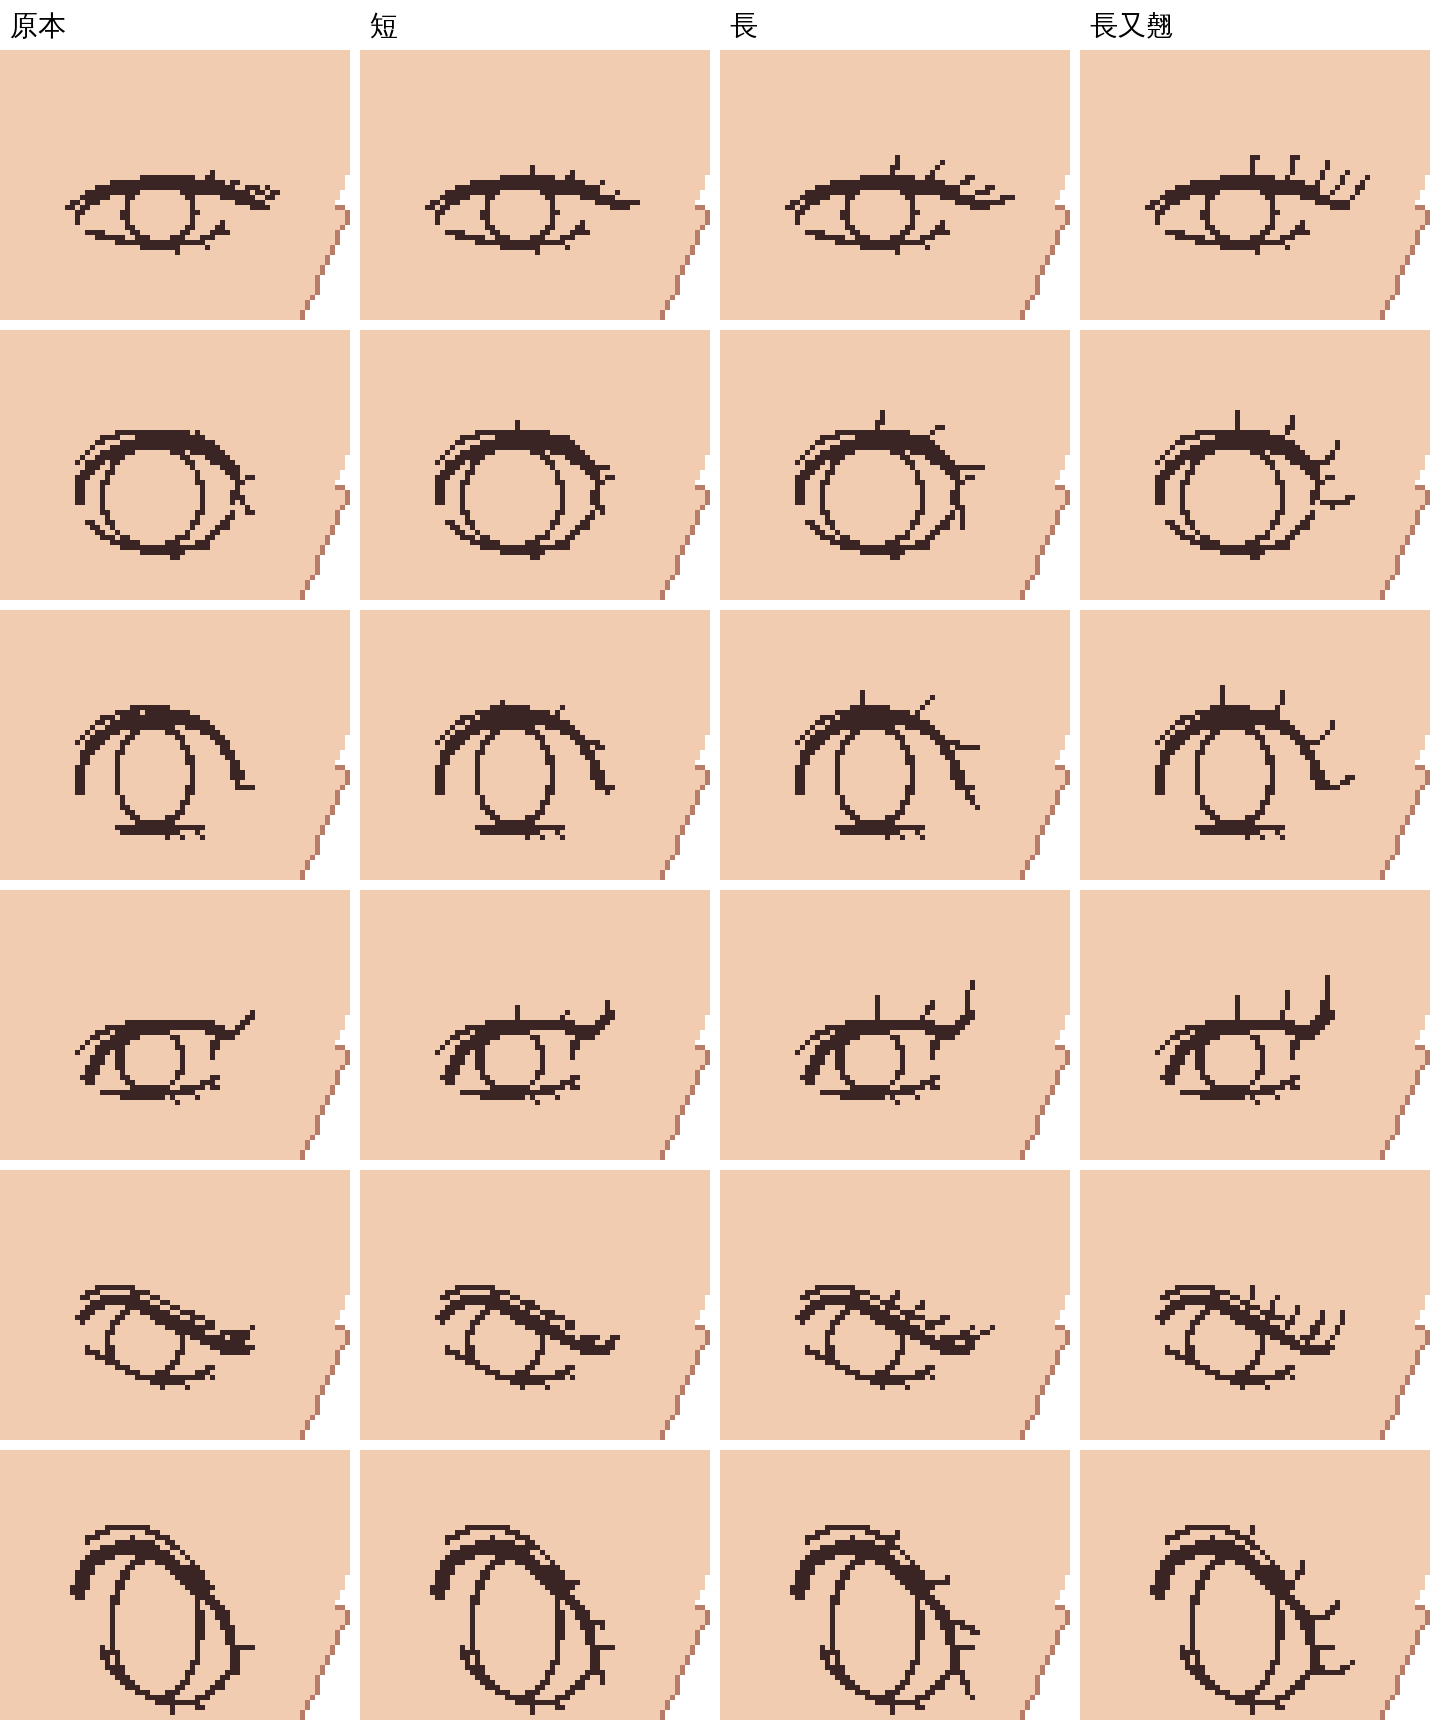
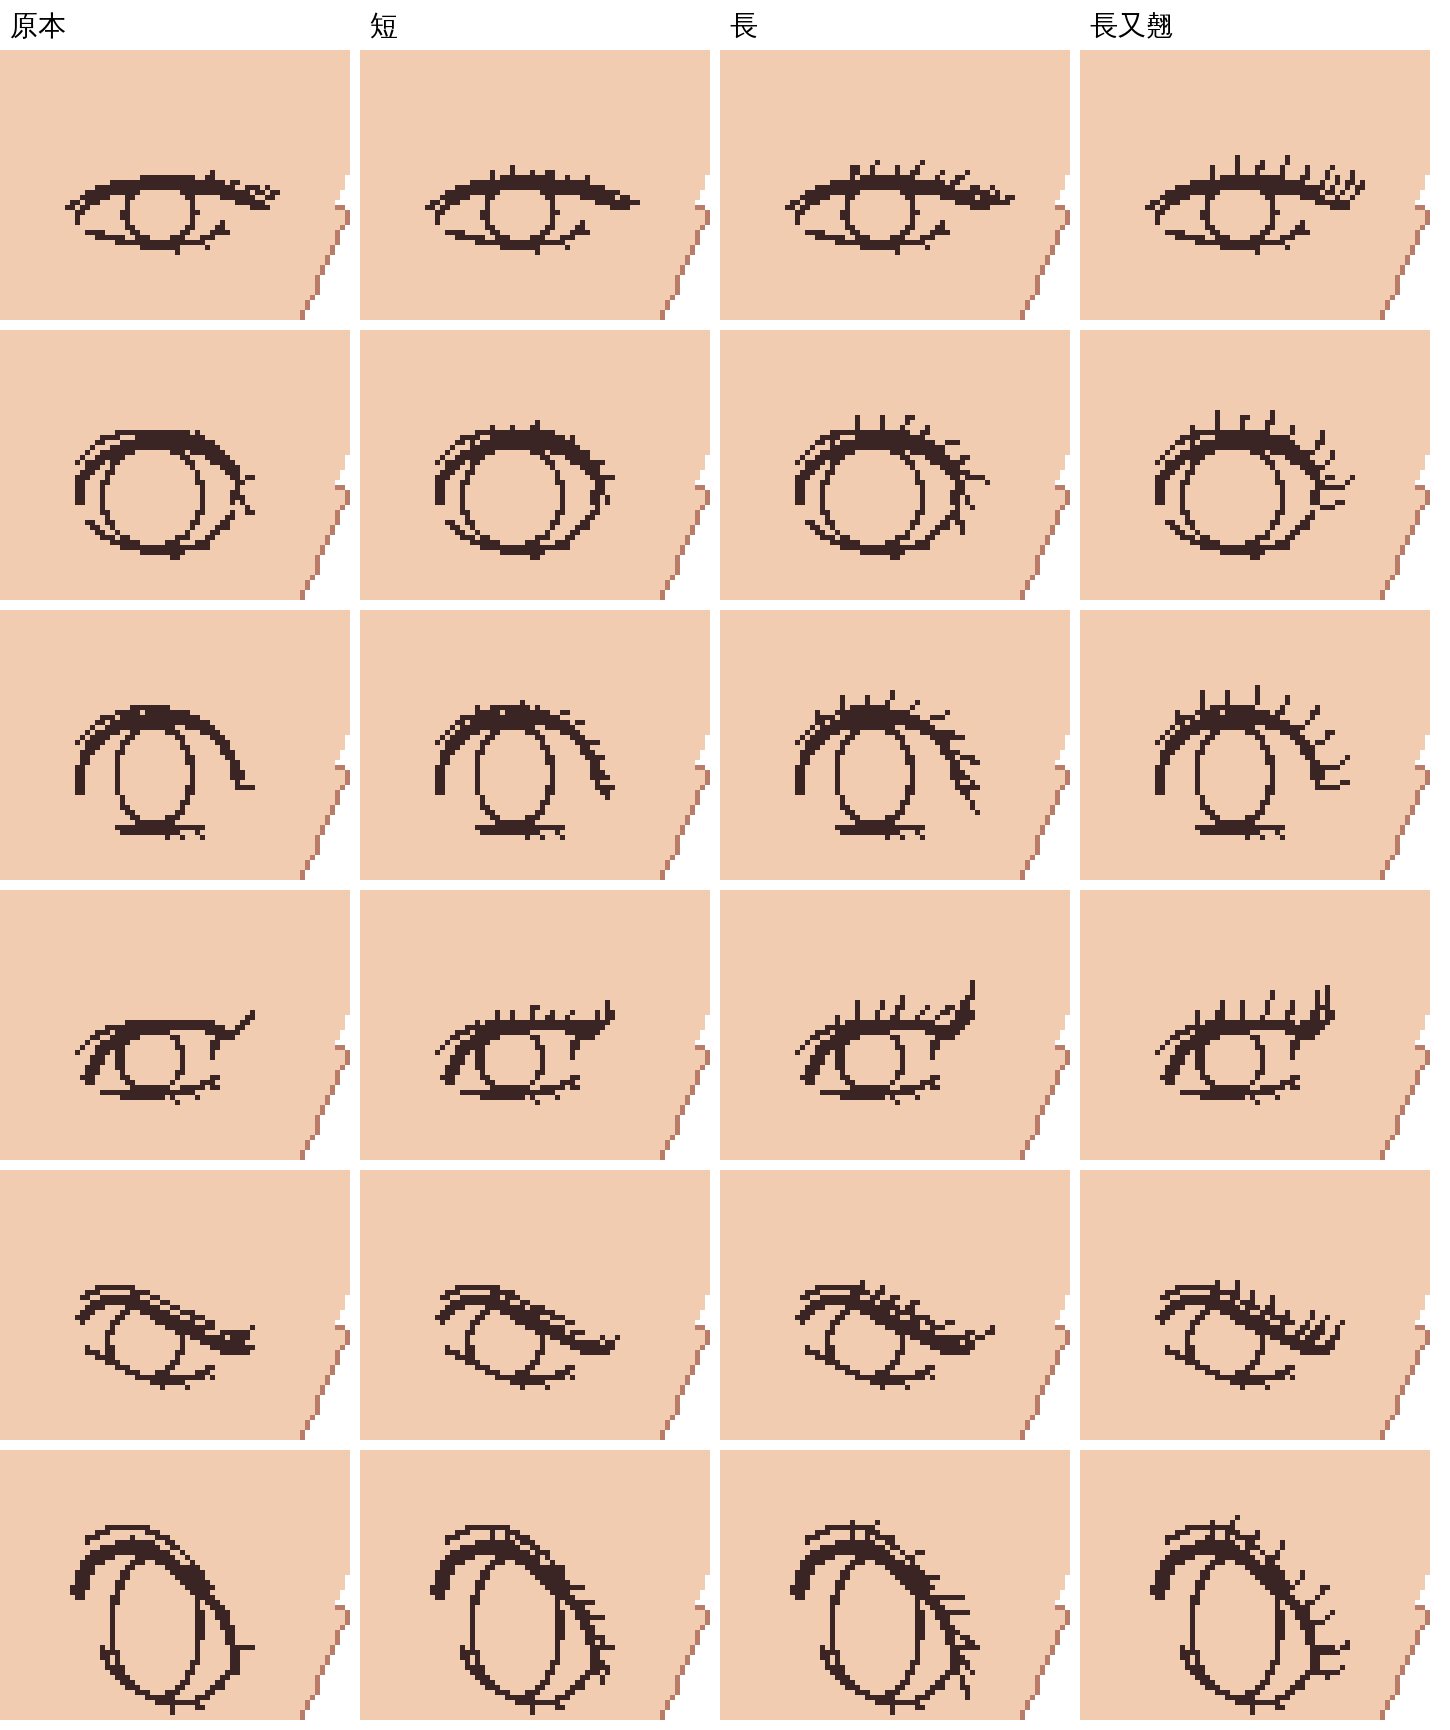
droom 臉模 v2：睫毛加密（使用者：太疏）——短 11、長 10、翹 9 根，從上眼線 30% 排到外眼角、長短交錯
Claude-Session: https://claude.ai/code/session_01FDQv7ddy7JMjePn6AqJ3VJ

diff --git a/web/droom/face_mold/v2/eyeframe.py b/web/droom/face_mold/v2/eyeframe.py
@@ -30,6 +30,7 @@ IRCENTER=os.environ.get('IRCENTER','1')=='1';IRIN=float(os.environ.get('IRIN','.
 # 2026-11-19 第二本教學（普通／つり目／たれ目各 6 個）：上眼線外半段長出一根根細睫毛、下眼線外側幾根小短毛、
 # 雙眼皮線拉長貼著上眼線、黑眼珠改成直的橢圓（比較高、比較窄）
 LASH=os.environ.get('LASH','')   # 睫毛種類（使用者 2026-11-19）：短／長／翹（長又翹）；空的＝教學量的原樣
+LASHCNT={'短':11,'長':10,'翹':9}
 LASHN=4;LASHL=3.0;IRISW,IRISH=5.6,7.8
 TYPES={
  # ── 2026-11-19 第二本教學「普通」那 6 個，照圖量的（眼寬當 27，原點在開口中央）──
@@ -123,21 +124,22 @@ class Frame:
     # 上睫毛：上眼線 55%～95% 的地方，往上偏外長出去，越外越長
     s.lashsegs=[]
     nl=T.get('lash',LASHN);n=len(s.up)
-    if LASH:nl=max(nl,4)          # 選了睫毛種類就每種眼眶都長睫毛（原本沒睫毛的至少 4 根）
+    if LASH:nl=LASHCNT.get(LASH,8)   # 選了睫毛種類就用固定根數（使用者：太疏了 → 密一點）
     for j in range(nl):
       q=j/max(1,nl-1)
-      t=(.46+.5*q) if LASH else (.58+.36*q);i=min(n-2,int(t*(n-1)))
+      t=(.3+.68*q) if LASH else (.58+.36*q);i=min(n-2,int(t*(n-1)))
+      alt=(1 if j%2 else .78) if LASH else 1   # 長短交錯，看起來比較自然
       (x0,y0),(x1,y1)=s.up[i],s.up[i+1];tx,ty=x1-x0,y1-y0;L=math.hypot(tx,ty) or 1;tx/=L;ty/=L
       nx,ny=ty,-tx;dx,dy=nx*.75+tx*.65,ny*.75+ty*.65;D=math.hypot(dx,dy);dx/=D;dy/=D
       hw=(s.upw[i]/2 if LASH else .6);bx,by=x0+nx*hw*.8,y0+ny*hw*.8   # 從上眼線的上緣長出來（法線朝上）
       # 扇形：內側那根比較直立、越外越往外倒（從上眼線的法線往外眼角轉 12°～62°）
       th=math.radians(12+50*q);fx,fy=nx*math.cos(th)+tx*math.sin(th),ny*math.cos(th)+ty*math.sin(th)
       if LASH=='短':     # 短睫毛：一根根短短的小刺
-        ln=1.8+.6*q;s.lashsegs.append([(bx,by),(bx+fx*ln,by+fy*ln)])
+        ln=(1.8+.6*q)*alt;s.lashsegs.append([(bx,by),(bx+fx*ln,by+fy*ln)])
       elif LASH=='長':   # 長睫毛：直的、長、扇形散開
-        ln=3.4+1.6*q;s.lashsegs.append([(bx,by),(bx+fx*ln,by+fy*ln)])
+        ln=(3.0+1.8*q)*alt;s.lashsegs.append([(bx,by),(bx+fx*ln,by+fy*ln)])
       elif LASH=='翹':   # 長又翹：先照扇形往外、尾巴往上彎
-        ln=3.8+2.0*q;pts=[(bx,by)];px,py=bx,by;a=math.atan2(fy,fx)
+        ln=(3.4+2.2*q)*alt;pts=[(bx,by)];px,py=bx,by;a=math.atan2(fy,fx)
         for k in range(8):
           a+=(-math.pi/2-a)*.14
           px+=math.cos(a)*ln/8;py+=math.sin(a)*ln/8;pts.append((px,py))
